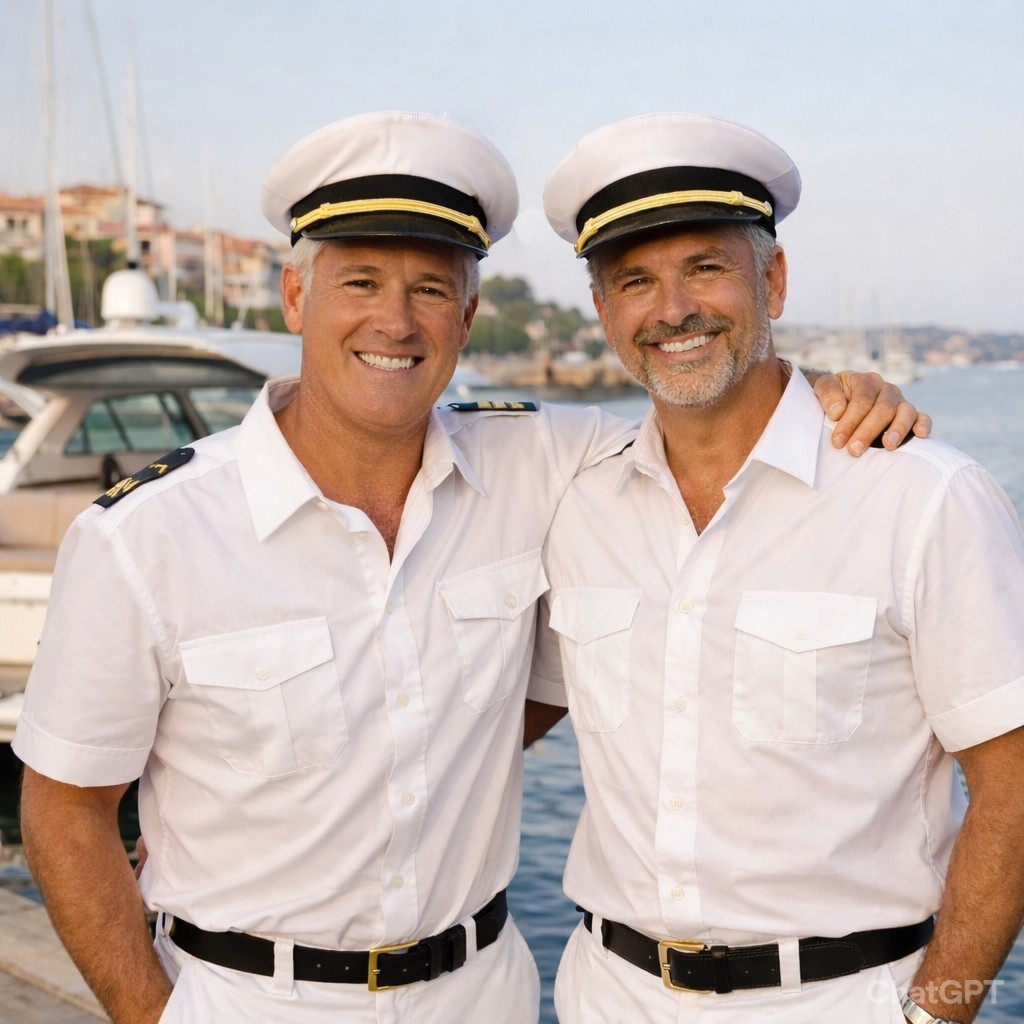
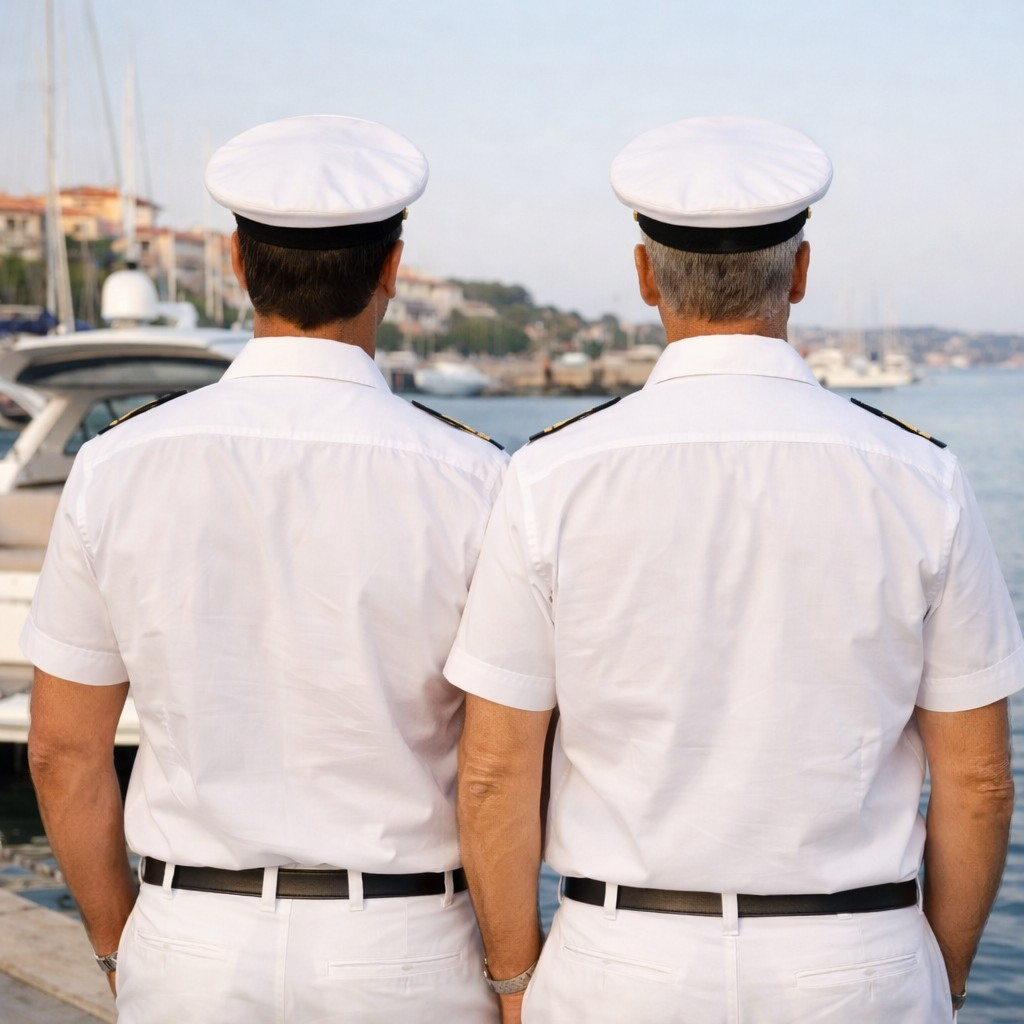
n3

diff --git a/src/content/scuola/patente-nautica-sl.md b/src/content/scuola/patente-nautica-sl.md
@@ -4,7 +4,7 @@ title: Patente Nautica Senza Limiti
 
 ## Requisiti
 
-Per garantire i massimi standard di preparazione e il superamento dell'esame, la frequenza è prevista unicamente in aula. La complessità del carteggio professionale richiede un affiancamento costante e prove pratiche su carta nautica, non replicabili con efficacia in modalità remota. In Brave Commanders, la sicurezza in mare inizia tra i banchi.
+Per garantire i massimi standard di preparazione e il superamento dell'esame, la frequenza è prevista unicamente in frontale. La complessità del carteggio professionale richiede un affiancamento costante e prove pratiche su carta nautica, non replicabili con efficacia in modalità remota. In Brave Commanders, la sicurezza in mare inizia tra i banchi.
 
 ## 📍 Programma Carteggio Oltre le 12 Miglia 📍
 

diff --git a/src/content/scuola/patente-nautica.md b/src/content/scuola/patente-nautica.md
@@ -4,7 +4,7 @@ title: Patente Nautica entro le 12 Miglia
 
 ## Requisiti
 
-Offriamo la massima flessibilità per il conseguimento della patente nautica: potrai scegliere tra la didattica frontale, caldamente raccomandata per l'interazione diretta con l'istruttore, o la formazione online assistita da supporti didattici multimediali
+Offriamo la massima flessibilità per il conseguimento della patente nautica: potrai scegliere tra la didattica frontale, caldamente raccomandata per l'interazione diretta con noi, o la formazione online assistita da supporti didattici multimediali
 
 ## 📍 Programma del corso 📍
 
